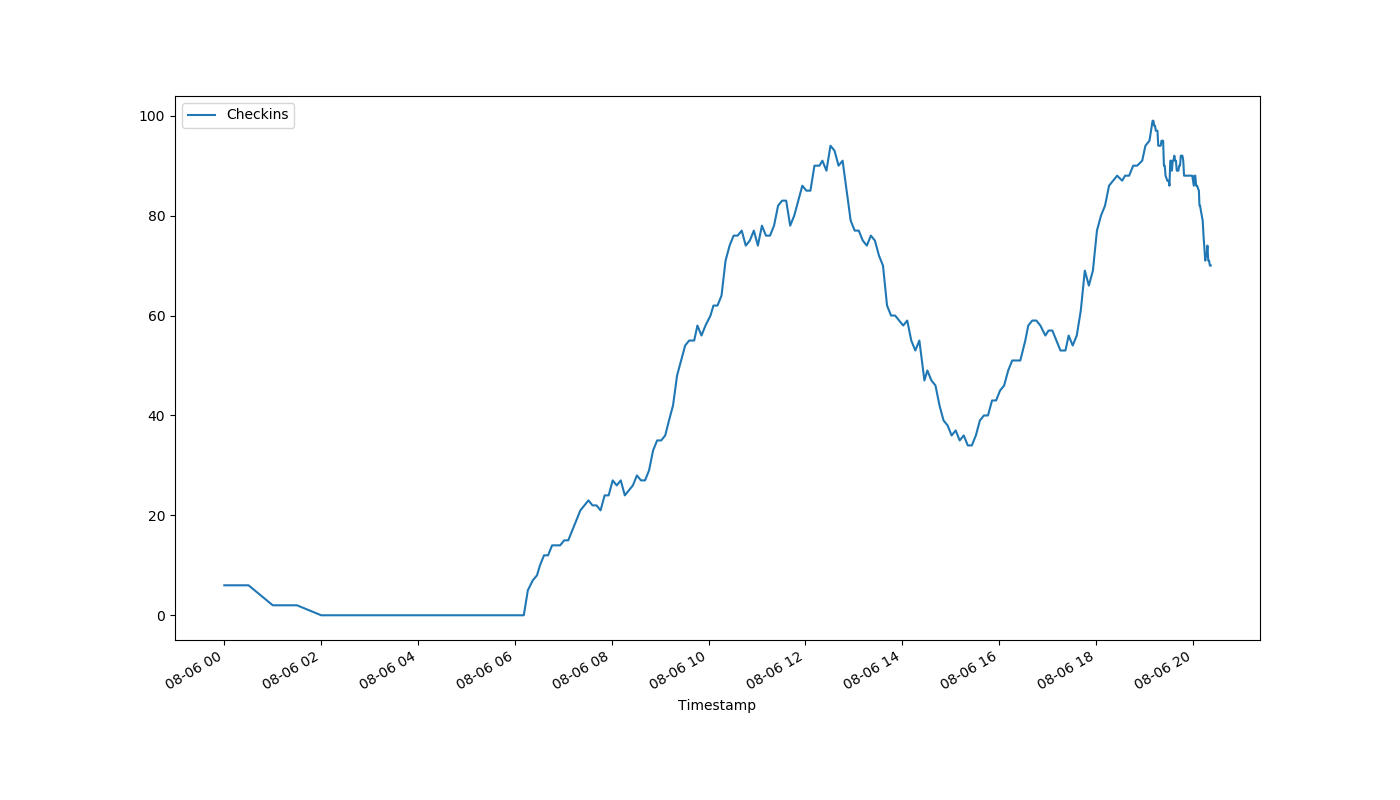
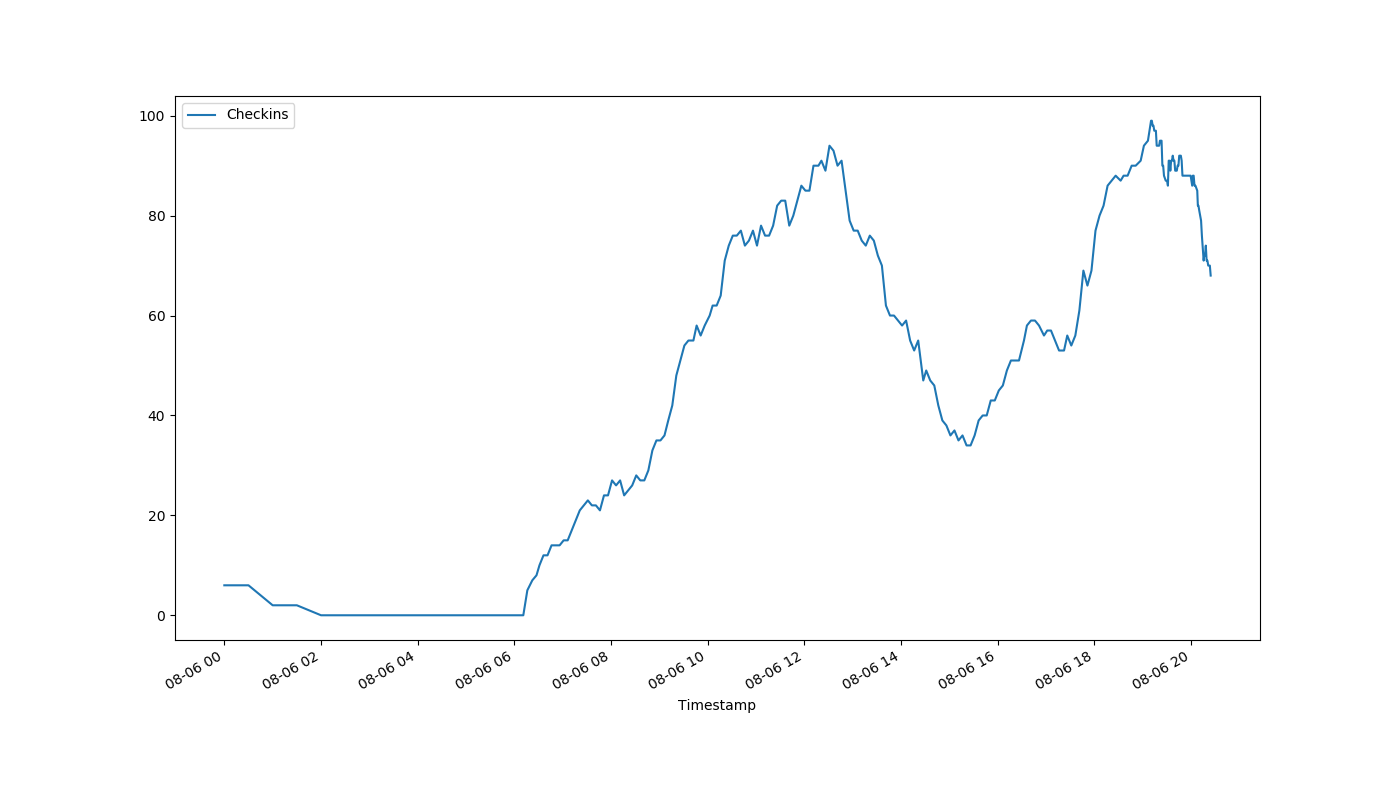
auto-Aug-06-20:24:34

diff --git a/index.html b/index.html
@@ -1,1 +1,1 @@
-<!DOCTYPE html><html><head><meta http-equiv="refresh" content="15"><link rel='stylesheet' href='holmcurrent.css'></head><body><p id='count'>70</p><div id='graph-wrap'><img id='graph' src='holmgraph-Aug-06.png'></div><p id='updated'>Last updated 20:22:14 / 20:22:09</p></body></html>
+<!DOCTYPE html><html><head><meta http-equiv="refresh" content="15"><link rel='stylesheet' href='holmcurrent.css'></head><body><p id='count'>68</p><div id='graph-wrap'><img id='graph' src='holmgraph-Aug-06.png'></div><p id='updated'>Last updated 20:24:15 / 20:24:11</p></body></html>
